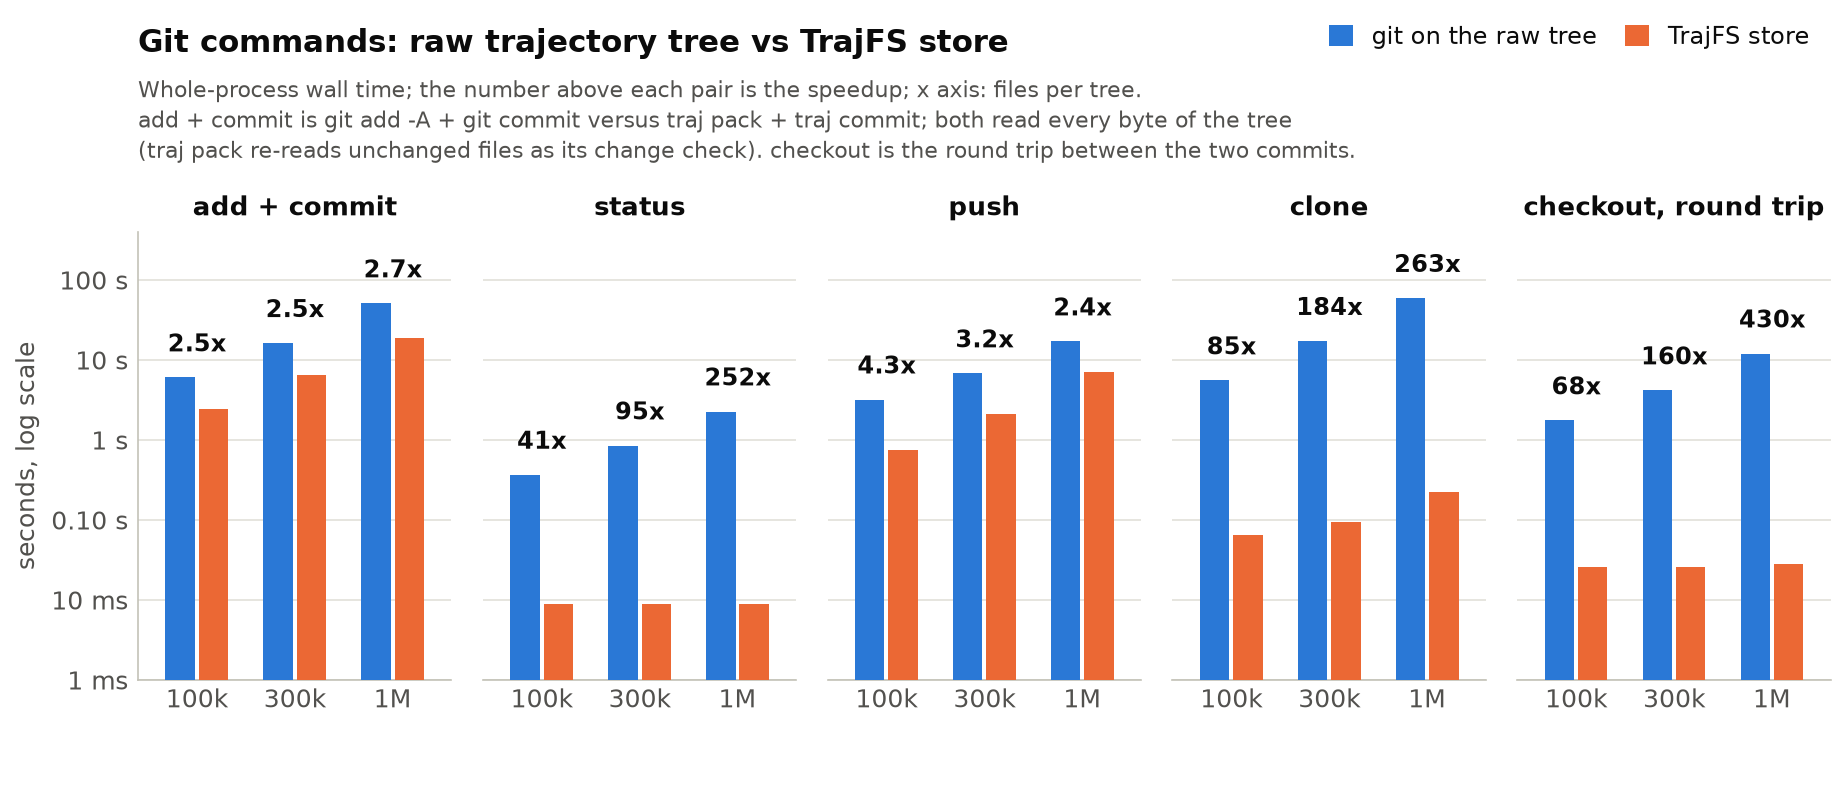
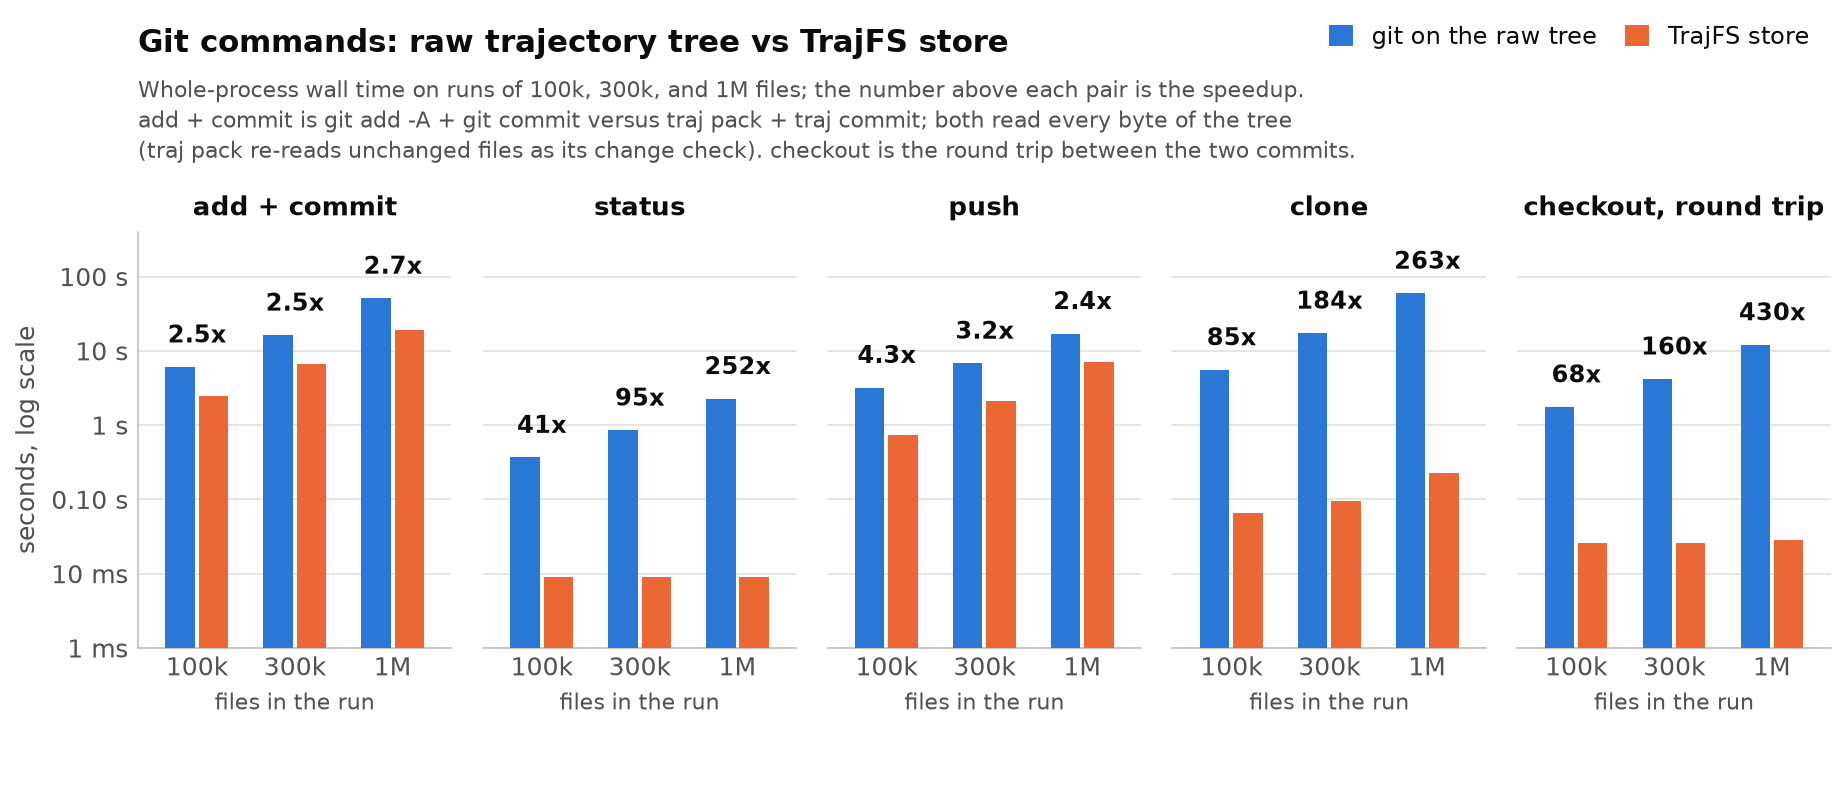
bench: label the x axis of the git-commands chart
Each panel now says "files in the run" under its 100k / 300k / 1M ticks
instead of relying on the subtitle. The recorded run's cache note also states
what its warm-up pass actually did.

diff --git a/bench/plot.py b/bench/plot.py
@@ -169,7 +169,7 @@ def plot_git_commands(data, out):
     ops = [operations(r) for r in runs]
     n_ops = 5
     fig, axes = plt.subplots(1, n_ops, figsize=(9.2, 4.0), sharey=True, dpi=DPI)
-    fig.subplots_adjust(left=0.075, right=0.995, top=0.71, bottom=0.15, wspace=0.10)
+    fig.subplots_adjust(left=0.075, right=0.995, top=0.71, bottom=0.19, wspace=0.10)
     xs = list(range(len(runs)))
     w = 0.30
     ymin = 1e-3
@@ -200,6 +200,7 @@ def plot_git_commands(data, out):
         ax.set_xticklabels([size_label(r["files_requested"]) for r in runs])
         ax.set_xlim(-0.6, len(runs) - 0.4)
         ax.tick_params(axis="x", length=0, pad=3)
+        ax.set_xlabel("files in the run", color=INK2, fontsize=8, labelpad=4)
         ax.grid(True, axis="y", which="major")
         ax.grid(False, axis="y", which="minor")
         ax.yaxis.set_major_locator(LogLocator(base=10, numticks=8))
@@ -210,7 +211,7 @@ def plot_git_commands(data, out):
         ax.spines["left"].set_visible(k == 0)
     fig.text(0.075, 0.965, "Git commands: raw trajectory tree vs TrajFS store", fontsize=11,
              fontweight="semibold", color=INK, ha="left", va="top")
-    fig.text(0.075, 0.905, "Whole-process wall time; the number above each pair is the speedup; x axis: files per tree.\n"
+    fig.text(0.075, 0.905, "Whole-process wall time on runs of 100k, 300k, and 1M files; the number above each pair is the speedup.\n"
              "add + commit is git add -A + git commit versus traj pack + traj commit; both read every byte of the tree\n"
              "(traj pack re-reads unchanged files as its change check). checkout is the round trip between the two commits.",
              fontsize=7.8, color=INK2, ha="left", va="top", linespacing=1.4)

diff --git a/docs/benchmarks/README.md b/docs/benchmarks/README.md
@@ -24,7 +24,7 @@ python3 bench/plot.py            # newest bench/results/*.json -> docs/benchmark
 
 `run.py` needs only the Python standard library; `plot.py` needs matplotlib. Git runs with an isolated configuration (`user.name=trajfs-bench, user.email=bench@example.invalid, core.fsmonitor=false, gc.auto=0, init.defaultBranch=main, advice.detachedHead=false`), a local bare repository as the remote, and `git clone` from that bare repository. The raw tree's repository keeps its `GIT_DIR` outside the tree so `traj pack` never sees a `.git` directory. TrajFS packs with `--adapter copilot-cli` and the default retention rules, commits with `traj commit <store>` inside a plain git repository that holds only the store, and adds the extra round as a second batch (`--label`). Any single command over 25 minutes is recorded as aborted and larger sizes are skipped.
 
-All measurements are **warm-cache**: before each measured side the runner syncs, waits for Dirty: in /proc/meminfo to drop below 50 MB (max 60 s) and reads every file once (find | xargs cat); that pass is recorded per size under warmups but never counted. Both sides therefore start from an identical page-cache state.
+All measurements are **warm-cache**: before each measured side the runner syncs, waits for Dirty: in /proc/meminfo to drop below 50 MB (max 60 s) and ran a read pass over the tree (in this run: tar -cf /dev/null, which GNU tar short-circuits without reading contents; the data was still resident from generation, so the state was warm all the same; the runner now reads every file through cat); that pass is recorded per size under warmups but never counted. Both sides therefore start from an identical page-cache state.
 
 ## Git commands
 
